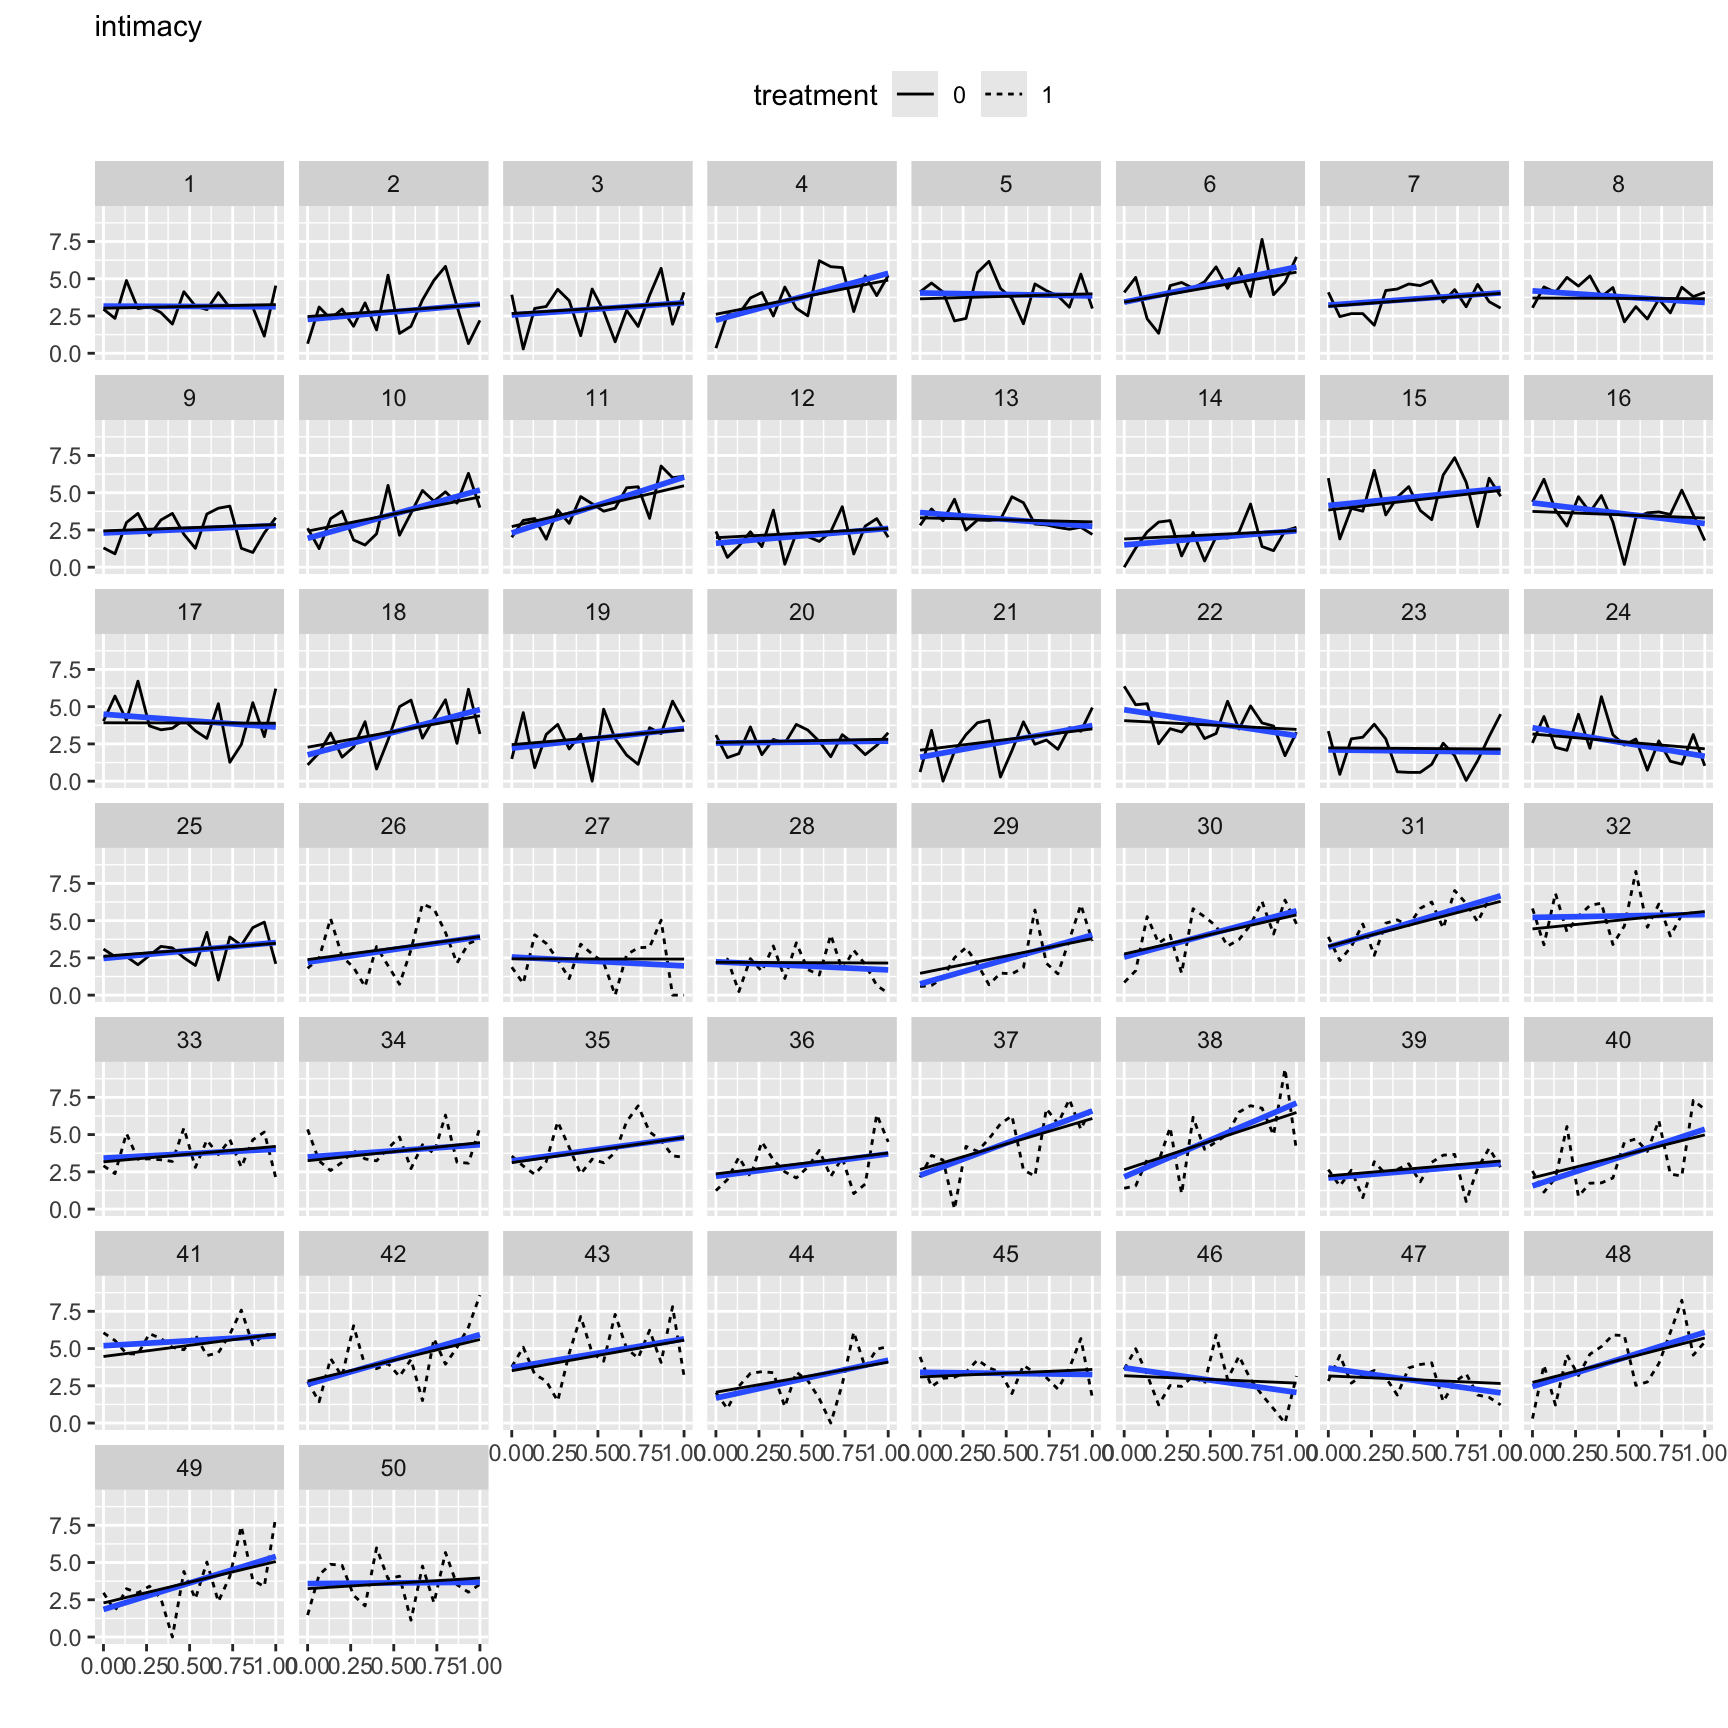
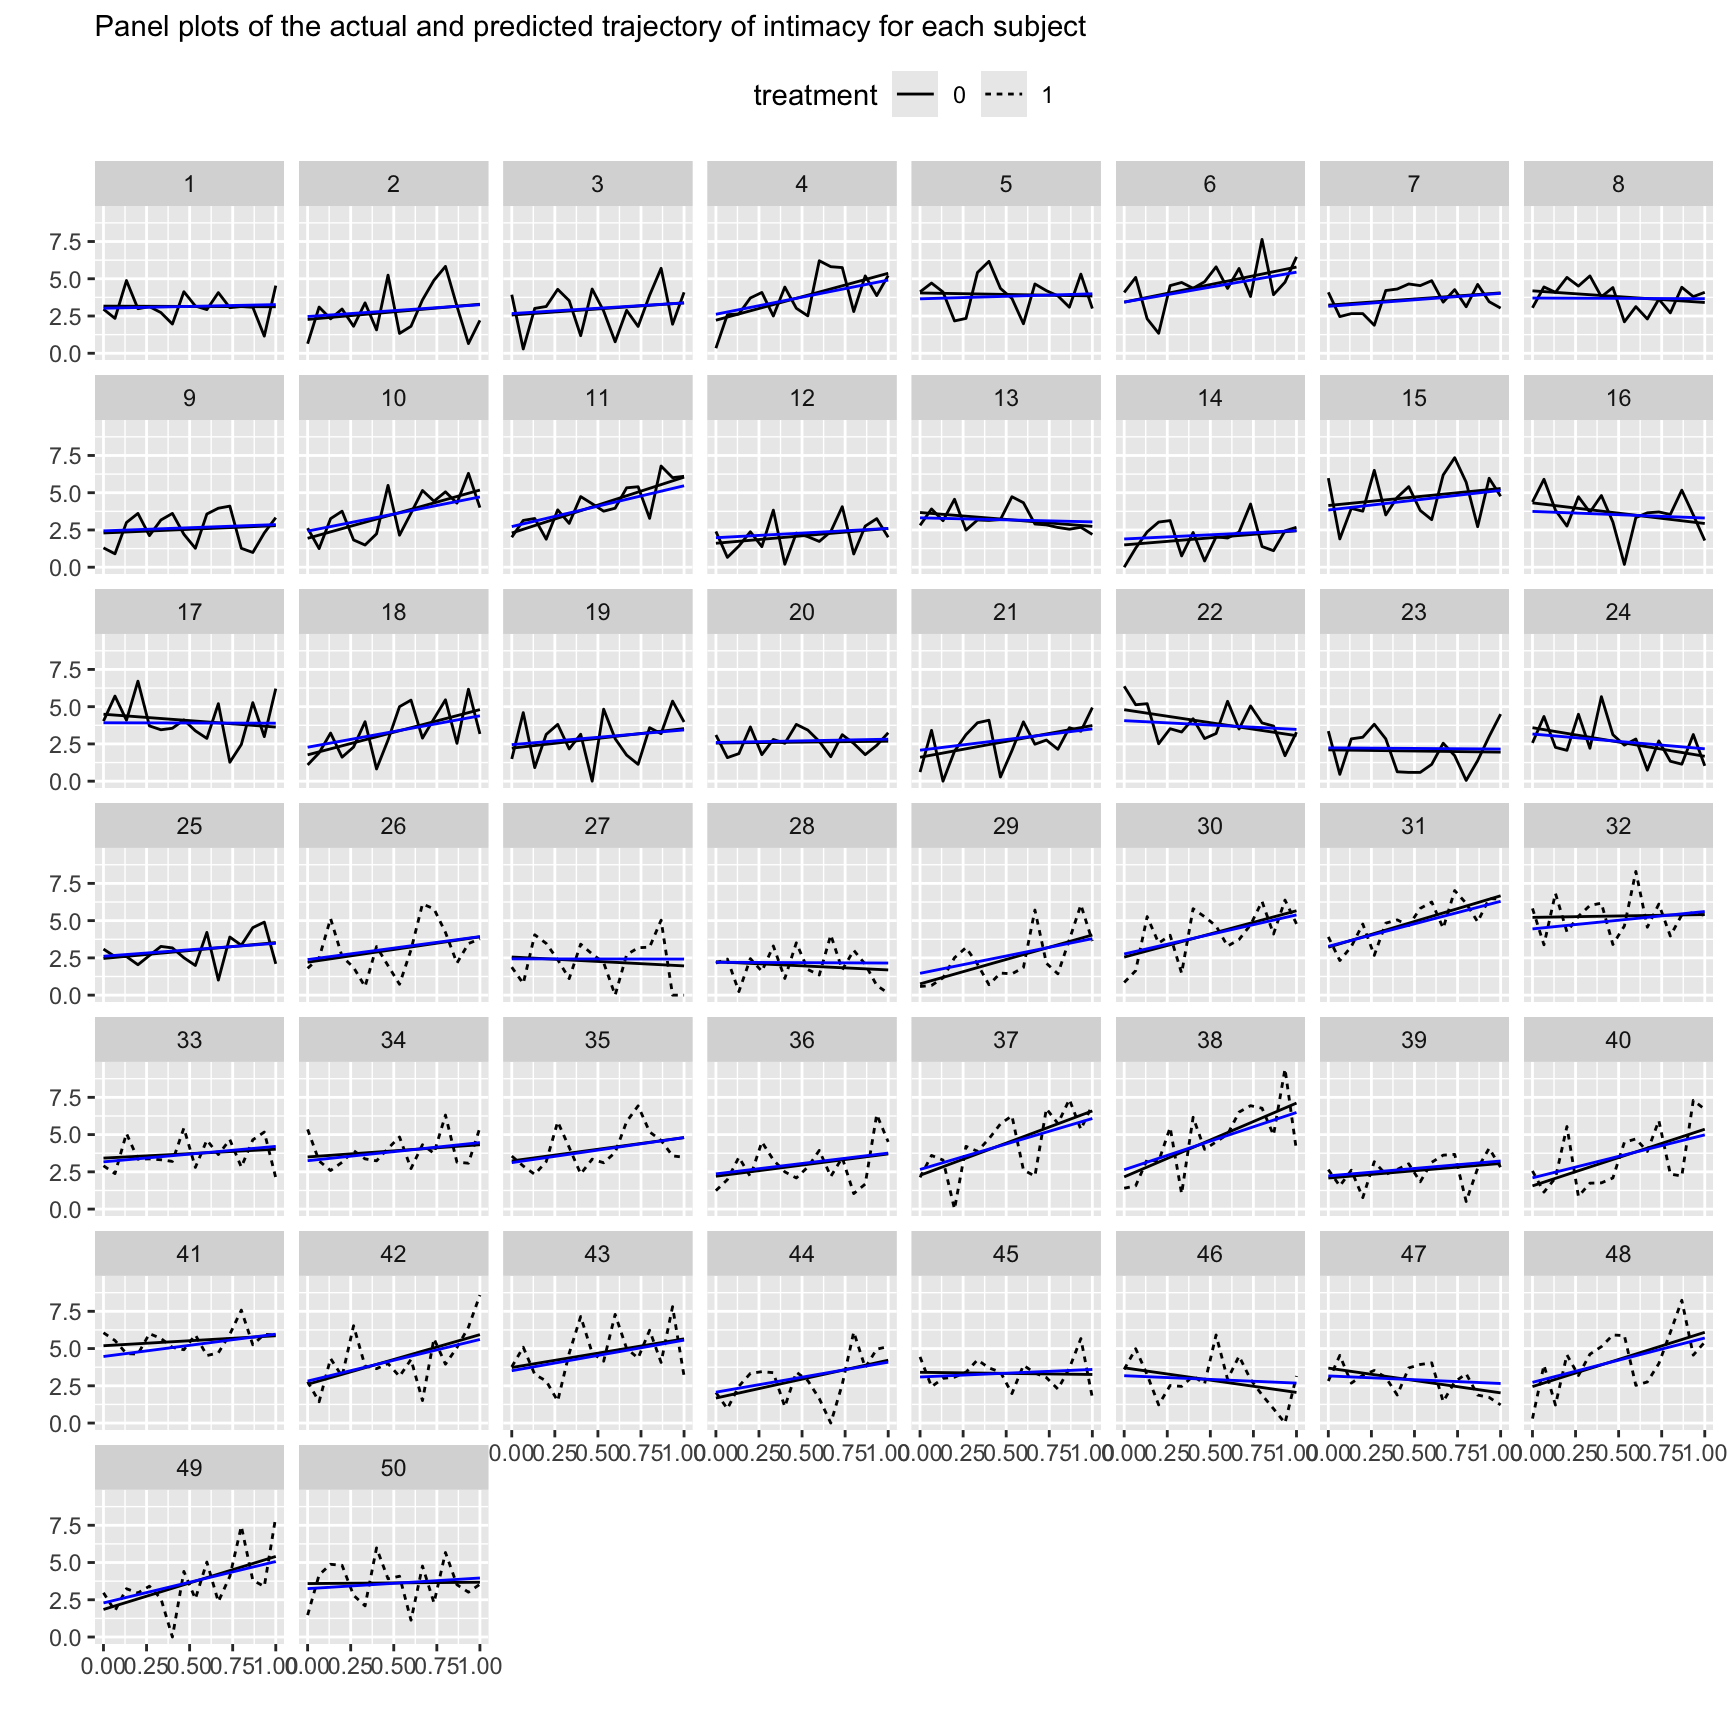
update from textbook

diff --git a/docs/centering.html b/docs/centering.html
@@ -272,8 +272,26 @@ Course of Continuous Outcomes</h1>
 </div>
 
 
+<p>The most basic feature of a longitudinal study is the time course or
+trajectory of the outcome measure (dependent variable or y). What is the
+trajectory of the typical subject? And how much do subjects differ from
+each other in their trajectory?</p>
+<p>For this example we will need <code>nlme</code> (nonlinear
+mixed-effect models) for it’s ability to explicitly model the
+within-subject covariance structure.</p>
 <pre class="r"><code>library(tidyverse)
 library(nlme)</code></pre>
+<p><br></p>
+<p>The time course dataset contains simulated data on an outcome where,
+as the result of an intervention, there is reason to expect group
+differences in the time course and, over and above these, subject-level
+differences within each group. The dataset is intended to represent a
+study of wives from 50 heterosexual married couples, randomly assigned
+to a 16-week marital therapy treatment condition ( n = 25) or a 16-week
+wait-list condition ( n = 25). In the treatment group each wife
+completed a web diary each week on the evening prior to the day of the
+therapy session, and in the control group each wife completed a web
+diary on a fixed day each week.</p>
 <pre class="r"><code>time &lt;- read_csv(&#39;time.csv&#39;) |&gt; 
   mutate(treatment = as.factor(treatment),
          id = as.factor(id))</code></pre>
@@ -289,12 +307,39 @@ time |&gt;
   ggplot(aes(x = time01, y = intimacy)) +
     geom_line(aes(linetype = treatment)) +
     facet_wrap(~id) +
-    labs(x = &quot;&quot;, y = &quot;&quot;, subtitle = &quot;intimacy&quot;) +
+    labs(x = &quot;&quot;, y = &quot;&quot;, 
+         subtitle = &quot;Panel plots of the 16-week trajectory of intimacy for each subject in the control and treatment groups&quot;) +
     theme(legend.position = &quot;top&quot;)</code></pre>
 <p><img src="centering_files/figure-html/Import-1.png" width="864" /></p>
 <p><br></p>
 <div id="model" class="section level2">
 <h2>Model</h2>
+<p>A random effects model with fixed terms for time and treatment group,
+and their interaction, along with random intercepts and slopes per
+subject. The within-subject covariance matrix with AR(1) errors.</p>
+<p>A central concern in modeling intensive longitudinal data is to
+estimate the population variances and covariances of the fixed effects.
+These allow us to know how much subjects differ from one another within
+the treatment and control groups, and, in case of the intercept–slope
+covariance, whether there is any tendency for subjects with larger or
+smaller intercepts (i.e., starting levels) to have larger or smaller
+slopes.</p>
+<p>The random effects for the intercept and slope are termed upper-level
+or <strong>between-subjects random effects</strong>; there are also
+lower-level or <strong>within-subjects random effects</strong>. These
+are the <span class="math inline">\(\epsilon_{ij}\)</span>’s, and they
+capture the extent to which a wife’s intimacy on a given week deviates
+above or below the value predicted by her specific regression line. We
+assume the <span class="math inline">\(\epsilon_{ij}\)</span>’s are
+strictly ordered in time with serial correlations. The simplest serial
+correlation is where the current error is a linear function of the
+previous error, plus a truly random <span
+class="math inline">\(v_{ij}\)</span>: <span
+class="math inline">\(\epsilon_{ij} = \rho \epsilon_{i-1, j} +
+v_{ij}\)</span>.</p>
+<p>Ignoring autocorrelation in errors typically leads to estimates of
+fixed effects that have standard errors that are too small, leading to
+Type I errors.</p>
 <p><br></p>
 <div id="linear-growth-model-with-ar1-errors" class="section level3">
 <h3>linear growth model with AR(1) errors</h3>
@@ -307,28 +352,28 @@ time |&gt;
 summary(lgmodel)</code></pre>
 <pre><code>## Linear mixed-effects model fit by REML
 ##   Data: time 
-##    AIC  BIC logLik
-##   2852 2895  -1417
+##        AIC      BIC    logLik
+##   2852.392 2894.508 -1417.196
 ## 
 ## Random effects:
 ##  Formula: ~time01 | id
 ##  Structure: General positive-definite, Log-Cholesky parametrization
-##             StdDev Corr  
-## (Intercept) 0.8281 (Intr)
-## time01      1.3761 -0.453
-## Residual    1.3010       
+##             StdDev    Corr  
+## (Intercept) 0.8281217 (Intr)
+## time01      1.3761445 -0.453
+## Residual    1.3009531       
 ## 
 ## Correlation Structure: AR(1)
 ##  Formula: ~1 | id 
 ##  Parameter estimate(s):
-##         Phi 
-## -0.00003662 
+##           Phi 
+## -3.661969e-05 
 ## Fixed effects:  intimacy ~ time01 * treatment 
-##                     Value Std.Error  DF t-value p-value
-## (Intercept)        2.8990    0.2070 748  14.003  0.0000
-## time01             0.7352    0.3472 748   2.118  0.0345
-## treatment1        -0.0564    0.2928  48  -0.193  0.8479
-## time01:treatment1  0.9214    0.4910 748   1.877  0.0610
+##                        Value Std.Error  DF   t-value p-value
+## (Intercept)        2.8989745 0.2070311 748 14.002601  0.0000
+## time01             0.7352012 0.3472019 748  2.117503  0.0345
+## treatment1        -0.0564426 0.2927862  48 -0.192777  0.8479
+## time01:treatment1  0.9214366 0.4910177 748  1.876585  0.0610
 ##  Correlation: 
 ##                   (Intr) time01 trtmn1
 ## time01            -0.599              
@@ -336,8 +381,8 @@ summary(lgmodel)</code></pre>
 ## time01:treatment1  0.423 -0.707 -0.599
 ## 
 ## Standardized Within-Group Residuals:
-##      Min       Q1      Med       Q3      Max 
-## -2.62426 -0.67979 -0.01899  0.64336  2.44625 
+##         Min          Q1         Med          Q3         Max 
+## -2.62425731 -0.67979207 -0.01899184  0.64336222  2.44625287 
 ## 
 ## Number of Observations: 800
 ## Number of Groups: 50</code></pre>
@@ -353,10 +398,12 @@ time |&gt;
   ggplot(aes(x = time01)) +
     geom_line(aes(y = intimacy, linetype = treatment)) +
     # compare to BLUE
-    geom_smooth(aes(y = intimacy), method = &quot;lm&quot;, formula = &#39;y ~ x&#39;, se = F) +
-    geom_line(aes(y = predicted)) + # BLUP?
+    geom_smooth(aes(y = intimacy), method = &quot;lm&quot;, formula = &#39;y ~ x&#39;, se = F,
+                color = &quot;black&quot;, linewidth = .5) +
+    geom_line(aes(y = predicted), color = &quot;blue&quot;) + # BLUP?
     facet_wrap(~id) +
-    labs(x = &quot;&quot;, y = &quot;&quot;, subtitle = &quot;intimacy&quot;) +
+    labs(x = &quot;&quot;, y = &quot;&quot;, 
+         subtitle = &quot;Panel plots of the actual and predicted trajectory of intimacy for each subject&quot;) +
     theme(legend.position = &quot;top&quot;)</code></pre>
 <p><img src="centering_files/figure-html/plot_predicted_id-1.png" width="864" /></p>
 <p><br></p>
@@ -372,12 +419,26 @@ class="section level1">
                 method = &quot;lm&quot;, formula = &#39;y ~ x&#39;, se = F,
                 linewidth = 2, color = &quot;red&quot;) +
     facet_wrap(~treatment) +
-    labs(x = &quot;&quot;, y = &quot;&quot;, subtitle = &quot;intimacy&quot;) +
+    labs(x = &quot;&quot;, y = &quot;&quot;, 
+         subtitle = &quot;Subject-specific regression lines for the control (left) and treatment (right) groups. 
+Average slope is shown in red&quot;) +
     theme(legend.position = &quot;top&quot;)</code></pre>
 <p><img src="centering_files/figure-html/plot_predicted_treatment-1.png" width="672" /></p>
+<p>The ﬁxed effects, can be thought of as the results for typical
+persons in the control and treatment groups, respectively. These ﬁxed
+effects are represented by the red lines in this figure. The
+between-subject random effects are represented by the variability in
+individual regression lines from the group averages. The lower-level
+(within-subject) random effects are represented by the difference
+between the raw data and predicted slopes in the earlier figure
+above.</p>
 <p><br></p>
 <div id="eb-estimates" class="section level2">
 <h2>EB estimates</h2>
+<p>Percentiles of slope distributions of the control and treatment
+groups are shown below. There is substantial overlap between both
+distributions (this would be better shown by the relative advantage of
+the treatment group distribution over the control group: TBD)</p>
 <pre class="r"><code>rfx &lt;- ranef(lgmodel) |&gt; 
   as_tibble(rownames = &quot;id&quot;) |&gt; 
   rename(ebintercept = 2, ebslope = 3)
@@ -406,7 +467,17 @@ coefs.1 |&gt;
   ) |&gt; 
   spread(p, qnt)</code></pre>
 <div class="kable-table">
-<table>
+<table style="width:100%;">
+<colgroup>
+<col width="12%" />
+<col width="13%" />
+<col width="13%" />
+<col width="13%" />
+<col width="12%" />
+<col width="11%" />
+<col width="11%" />
+<col width="11%" />
+</colgroup>
 <thead>
 <tr class="header">
 <th align="right">treatment</th>
@@ -422,23 +493,23 @@ coefs.1 |&gt;
 <tbody>
 <tr class="odd">
 <td align="right">0</td>
-<td align="right">-0.9919</td>
-<td align="right">-0.5573</td>
-<td align="right">-0.0292</td>
-<td align="right">0.6208</td>
-<td align="right">1.314</td>
-<td align="right">2.294</td>
-<td align="right">2.739</td>
+<td align="right">-0.9918586</td>
+<td align="right">-0.5573320</td>
+<td align="right">-0.0291769</td>
+<td align="right">0.6208204</td>
+<td align="right">1.314164</td>
+<td align="right">2.293812</td>
+<td align="right">2.738911</td>
 </tr>
 <tr class="even">
 <td align="right">1</td>
-<td align="right">-0.5076</td>
-<td align="right">-0.4071</td>
-<td align="right">0.9973</td>
-<td align="right">1.5425</td>
-<td align="right">2.778</td>
-<td align="right">3.339</td>
-<td align="right">3.844</td>
+<td align="right">-0.5076443</td>
+<td align="right">-0.4071146</td>
+<td align="right">0.9973304</td>
+<td align="right">1.5424788</td>
+<td align="right">2.778086</td>
+<td align="right">3.338567</td>
+<td align="right">3.844033</td>
 </tr>
 </tbody>
 </table>
